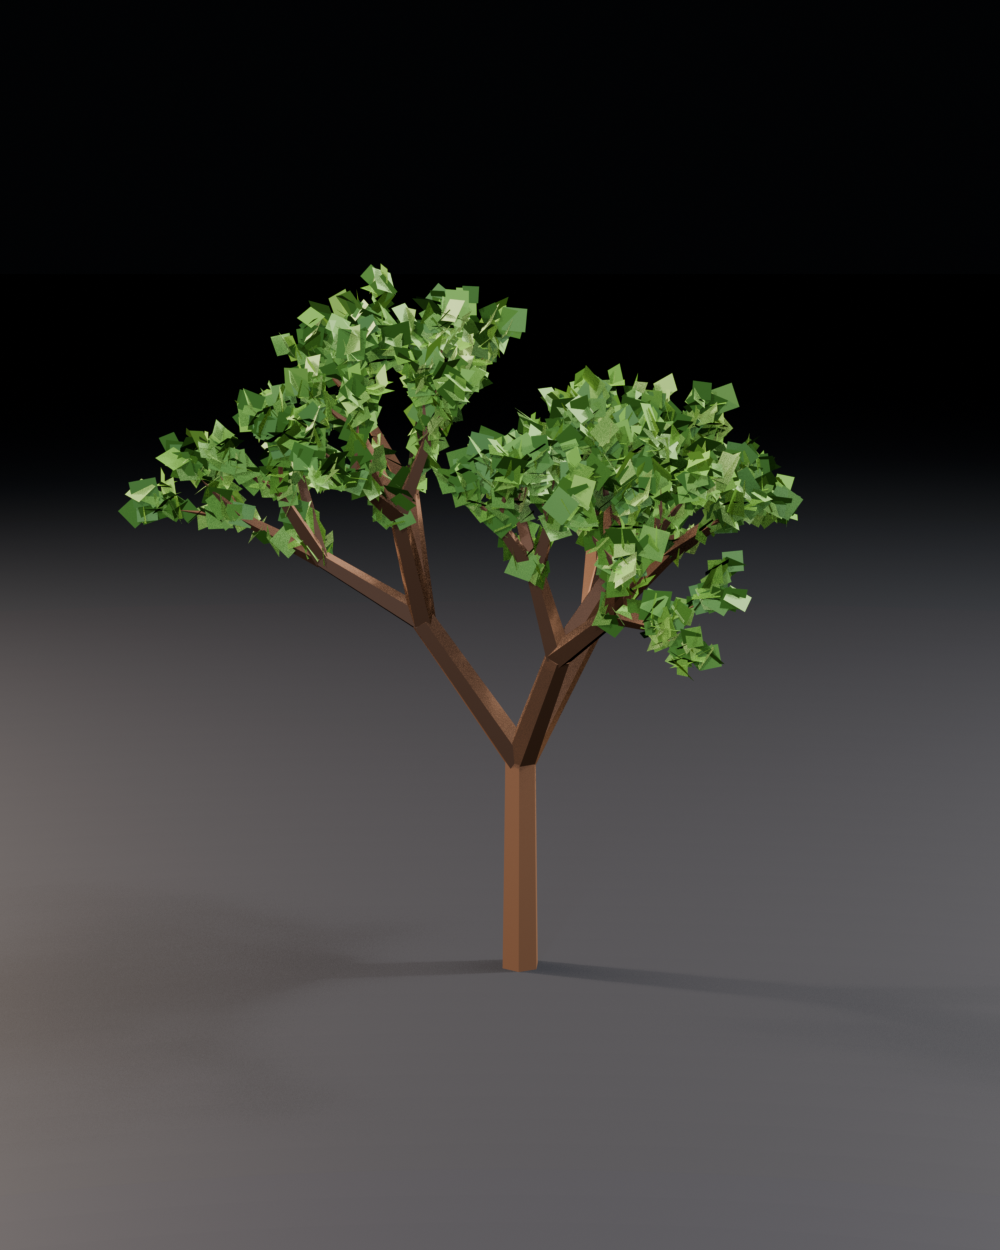
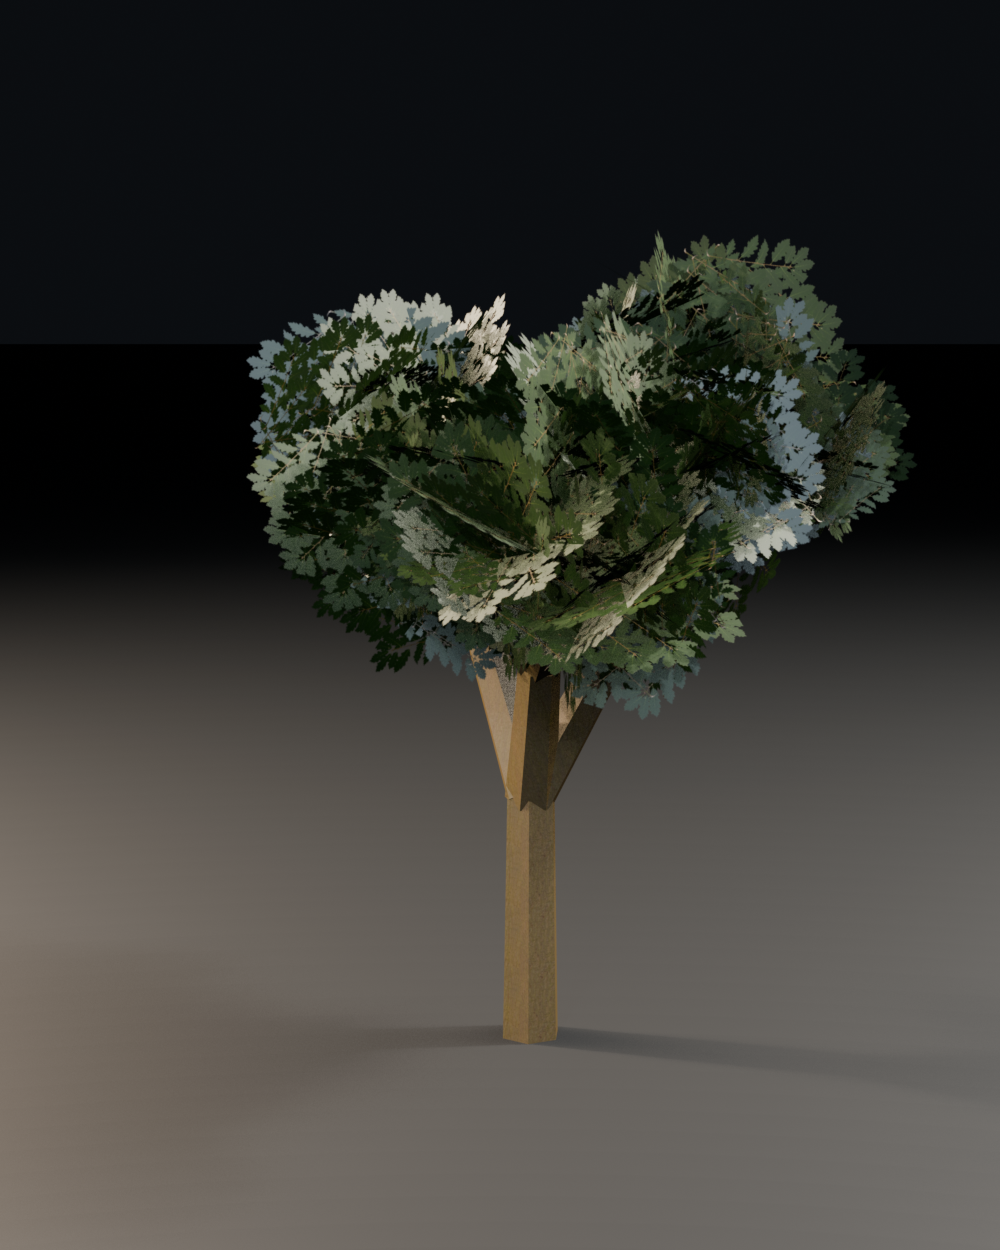
Reshoot tree with textured materials, and railing with wider, punchier demos
Tree: rendered with the real bark and foliage textures (leaf alpha wired
into the shader), new foliage-density GIF, brighter exposure so the crown
reads.

Railing: helical ramp hero instead of a flat L, plus height / rail count /
post spacing GIFs, and Max Deviation now shown full-frame with a live
sections and triangle counter.

Changed region(s): [[0.0, 0.1872, 1.0, 0.8424]]

diff --git a/docs/GUIDE.md b/docs/GUIDE.md
@@ -48,23 +48,32 @@ The *Result* panel shows the values actually built and checks Blondel's comfort 
 
 ## 2. Curve Railing Generator
 
-**The only setting that really matters: `Max Deviation`** — the angular budget of one rail
-section. Lower means smoother fillets and more triangles, and the straight runs never gain a
-single subdivision. `Corner Radius` rounds every corner with a **true circular arc**, not a
-Bézier approximation: you drop control points, no handles to manage.
+Drop control points or hand it a curve, and you get a railing: handrail, horizontal rails,
+posts. Everything is a live parameter — height, how many rails, how tight the posts are spaced.
 
 <p align="center">
-  <img src="media/curve-railing-generator/deviation.gif" width="49%" alt="Max Deviation from 20° to 2°">
-  <img src="media/curve-railing-generator/corner.gif" width="49%" alt="Corner Radius from 0 to 1.6 m">
+  <img src="media/curve-railing-generator/height.gif" width="32%" alt="Handrail height">
+  <img src="media/curve-railing-generator/rails.gif" width="32%" alt="Rail count 1 to 5">
+  <img src="media/curve-railing-generator/posts.gif" width="32%" alt="Post spacing 2 m to 0.3 m">
 </p>
 
-The orange wireframe shows where the density goes: concentrated on the arc, absent everywhere
-else.
+**The point of the add-on is `Max Deviation`** — the angular budget of one rail section. It is
+the only setting that really matters: the tessellation follows the curvature, so a straight run
+costs two triangles and a tight turn gets exactly as many as it needs. On this helical ramp, 641
+sampled points collapse to 76 sections at 6°, and the handrail still reads as perfectly smooth.
 
 <p align="center">
-  <img src="media/curve-railing-generator/hero.png" width="32%" alt="Generated railing">
+  <img src="media/curve-railing-generator/deviation.gif" width="66%" alt="Max Deviation from 24° to 2°">
   <img src="media/curve-railing-generator/topology.png" width="32%" alt="Fillet topology">
-  <img src="media/curve-railing-generator/panel.png" width="32%" alt="Railing panel">
+</p>
+
+On a control-point path, every corner is rounded off by a **true circular arc** of the radius you
+ask for — not a Bézier approximation, no handles to manage. Corners whose neighbouring segments
+are too short shrink their own fillet so two never overlap.
+
+<p align="center">
+  <img src="media/curve-railing-generator/corner.gif" width="49%" alt="Corner Radius 0 to 1.8 m">
+  <img src="media/curve-railing-generator/hero.png" width="49%" alt="Helical ramp railing">
 </p>
 
 Measured figures on a "long straight + 90° turn" path:
@@ -80,31 +89,41 @@ Measured figures on a "long straight + 90° turn" path:
 Settings live **on the object**, so Shift+D gives a copy you can edit independently. With *Live
 Update* on, moving a control point in Edit Mode updates the railing in real time.
 
+<p align="center">
+  <img src="media/curve-railing-generator/panel.png" width="66%" alt="Railing panel">
+</p>
+
 **Railing** tab · `curve-railing-generator/curve_railing_generator.py` · [README](../curve-railing-generator/README.md)
 
 ---
 
 ## 3. Low Poly Hex Tree
 
-**Branch Depth** grows the tree one level at a time — 28 faces for the bare trunk, 4598 at five
-levels with foliage. And one integer changes everything: same settings, sixteen seeds.
+**Branch Depth** grows the tree one level at a time — 25 faces for the bare trunk, 3410 at five
+levels. **Leaves per Branch** fills the crown. And one integer reshuffles everything: same
+settings, sixteen seeds.
 
 <p align="center">
   <img src="media/low-poly-hex-tree/growth.gif" width="32%" alt="Growth by branching level">
+  <img src="media/low-poly-hex-tree/foliage.gif" width="32%" alt="Leaves per branch 0 to 10">
   <img src="media/low-poly-hex-tree/seeds.gif" width="32%" alt="Seed variation">
-  <img src="media/low-poly-hex-tree/hero.png" width="32%" alt="Low poly tree">
 </p>
 
-Sections are curved by parallel transport, so no twist ever accumulates along a branch. Quad
-foliage, box-projected UVs. Enough to fill a set without ever getting two identical trees.
+Sections are curved by parallel transport, so no twist ever accumulates along a branch. Foliage
+is quads with box-projected UVs on the wood — plug in your own bark and leaf atlas and it takes
+them straight away.
 
 <p align="center">
+  <img src="media/low-poly-hex-tree/hero.png" width="32%" alt="Low poly tree">
   <img src="media/low-poly-hex-tree/variants.png" width="66%" alt="Five trees, five seeds">
-  <img src="media/low-poly-hex-tree/panel.png" width="32%" alt="Tree panel">
 </p>
 
 Every branching level has its own settings (branch count, polygon sides, sections, taper, curve
 noise), copyable from one level to all the others in one click.
+
+<p align="center">
+  <img src="media/low-poly-hex-tree/panel.png" width="66%" alt="Tree panel">
+</p>
 
 **Tree** tab · `low-poly-hex-tree/low_poly_hex_tree.py` · [README](../low-poly-hex-tree/README.md)
 

diff --git a/curve-railing-generator/README.md b/curve-railing-generator/README.md
@@ -105,14 +105,24 @@ Edit > Preferences > Add-ons > Install, pick `curve_railing_generator.py`, then 
 
 ## Preview
 
+Height, rail count, post spacing — all live:
+
 <p align="center">
-  <img src="../docs/media/curve-railing-generator/deviation.gif" width="49%" alt="Max Deviation 20° to 2°">
-  <img src="../docs/media/curve-railing-generator/corner.gif" width="49%" alt="Corner Radius 0 to 1.6 m">
+  <img src="../docs/media/curve-railing-generator/height.gif" width="32%" alt="Handrail height">
+  <img src="../docs/media/curve-railing-generator/rails.gif" width="32%" alt="Rail count 1 to 5">
+  <img src="../docs/media/curve-railing-generator/posts.gif" width="32%" alt="Post spacing">
+</p>
+
+`Max Deviation` from 24° to 2° on a helical ramp — 641 sampled points collapse to 76 sections at
+6°, and the handrail still reads as smooth:
+
+<p align="center">
+  <img src="../docs/media/curve-railing-generator/deviation.gif" width="66%" alt="Max Deviation">
+  <img src="../docs/media/curve-railing-generator/topology.png" width="32%" alt="Fillet topology">
 </p>
 <p align="center">
-  <img src="../docs/media/curve-railing-generator/hero.png" width="32%" alt="Generated railing">
-  <img src="../docs/media/curve-railing-generator/topology.png" width="32%" alt="Fillet topology">
-  <img src="../docs/media/curve-railing-generator/panel.png" width="32%" alt="Panel">
+  <img src="../docs/media/curve-railing-generator/corner.gif" width="49%" alt="Corner Radius">
+  <img src="../docs/media/curve-railing-generator/hero.png" width="49%" alt="Helical ramp railing">
 </p>
 
 [Full illustrated guide](../docs/GUIDE.md#2-curve-railing-generator)

diff --git a/low-poly-hex-tree/README.md b/low-poly-hex-tree/README.md
@@ -17,14 +17,18 @@ Edit > Preferences > Add-ons > Install, pick `low_poly_hex_tree.py`, then enable
 
 ## Preview
 
+Branch depth, foliage density, seed:
+
 <p align="center">
   <img src="../docs/media/low-poly-hex-tree/growth.gif" width="32%" alt="Growth by branching level">
+  <img src="../docs/media/low-poly-hex-tree/foliage.gif" width="32%" alt="Leaves per branch">
   <img src="../docs/media/low-poly-hex-tree/seeds.gif" width="32%" alt="Seed variation">
-  <img src="../docs/media/low-poly-hex-tree/hero.png" width="32%" alt="Low poly tree">
 </p>
 <p align="center">
+  <img src="../docs/media/low-poly-hex-tree/hero.png" width="32%" alt="Low poly tree">
   <img src="../docs/media/low-poly-hex-tree/variants.png" width="66%" alt="Five seeds">
-  <img src="../docs/media/low-poly-hex-tree/panel.png" width="32%" alt="Panel">
 </p>
+
+Box-projected UVs on the wood, quad foliage: plug in your own bark and leaf atlas.
 
 [Full illustrated guide](../docs/GUIDE.md#3-low-poly-hex-tree)

diff --git a/README.md b/README.md
@@ -17,11 +17,11 @@ editing shortcut. Tested on Blender 5.1.
 
 <p align="center">
   <img src="docs/media/curve-railing-generator/deviation.gif" width="32%" alt="Adaptive tessellation">
-  <img src="docs/media/stair-generator/angle.gif" width="32%" alt="Staircase slope">
+  <img src="docs/media/curve-railing-generator/posts.gif" width="32%" alt="Post spacing">
   <img src="docs/media/noise-surface-generator/octaves.gif" width="32%" alt="fBm octaves">
 </p>
 <p align="center">
-  <img src="docs/media/low-poly-hex-tree/seeds.gif" width="32%" alt="Procedural trees">
+  <img src="docs/media/low-poly-hex-tree/foliage.gif" width="32%" alt="Procedural trees">
   <img src="docs/media/cube-ring-generator/scatter.gif" width="32%" alt="Cube ring scatter">
   <img src="docs/media/color-id-map-generator/turntable.gif" width="32%" alt="Color ID map">
 </p>
